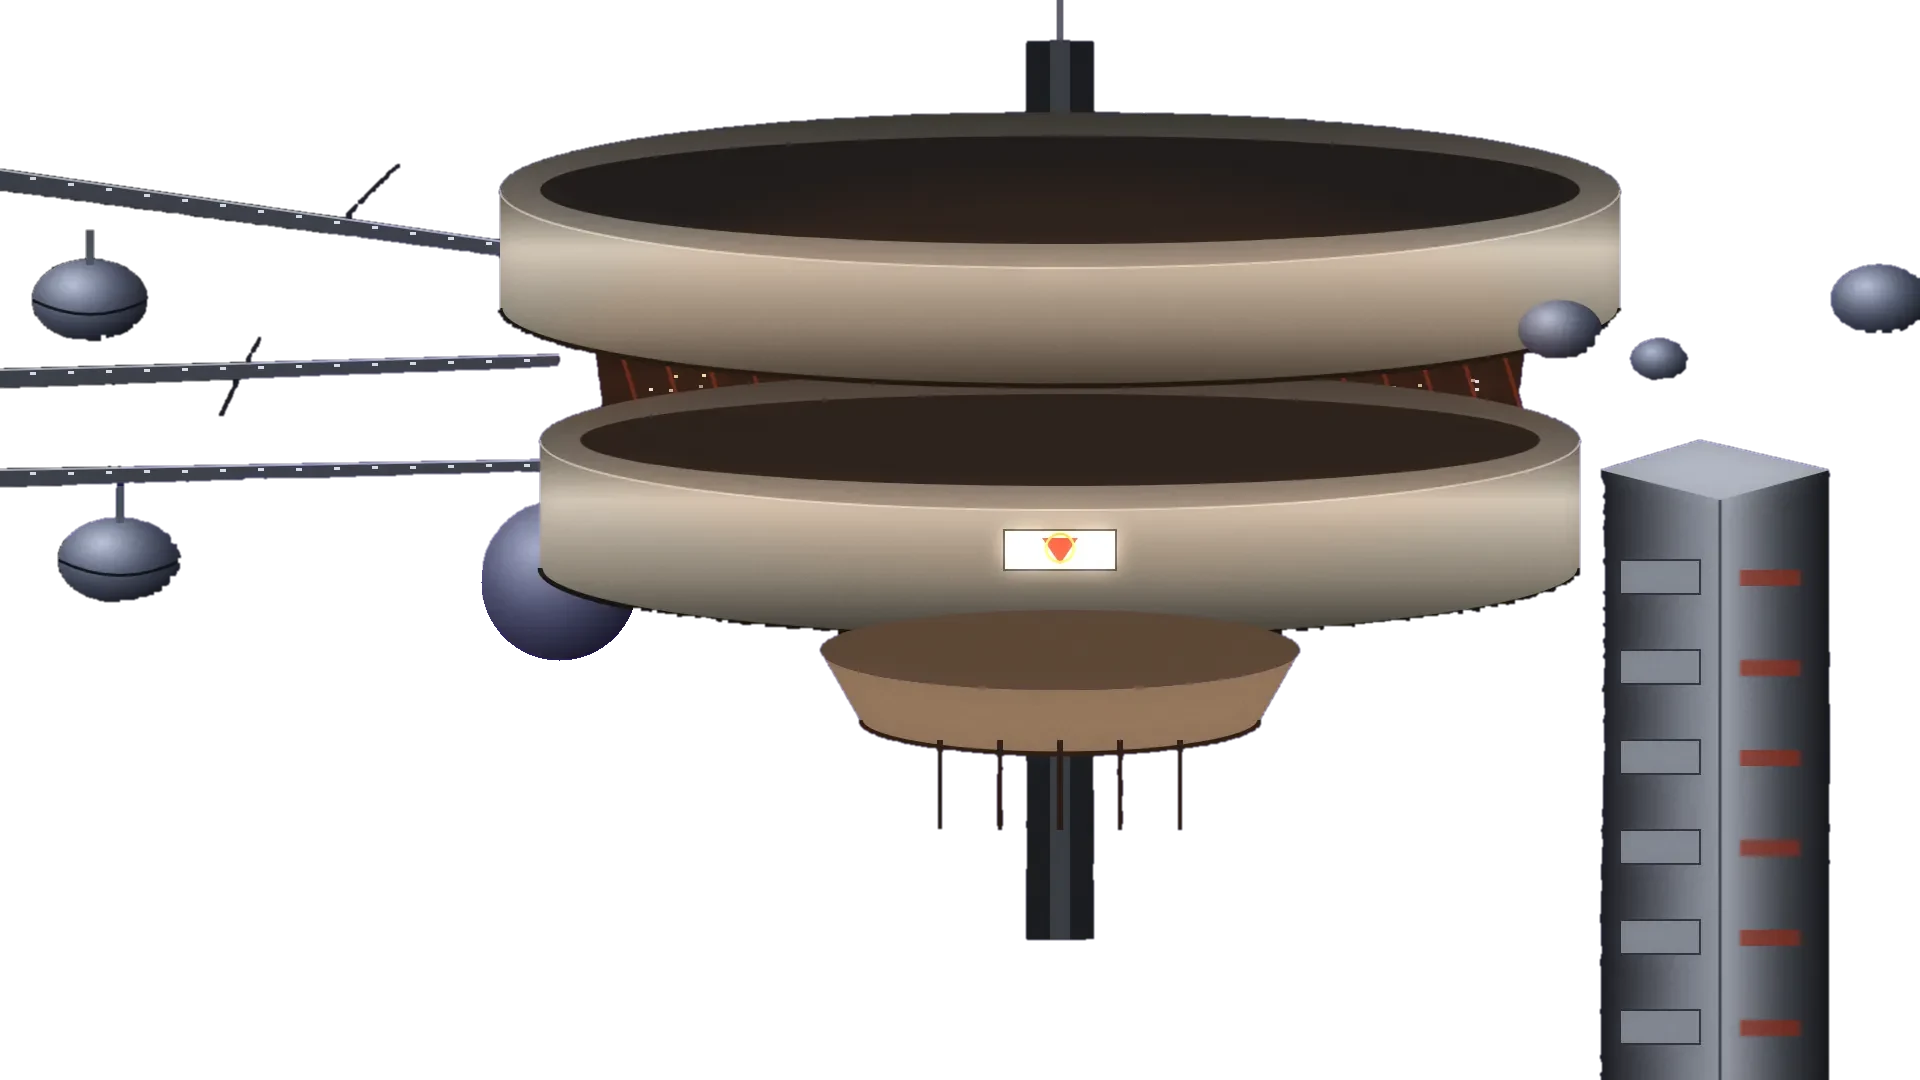
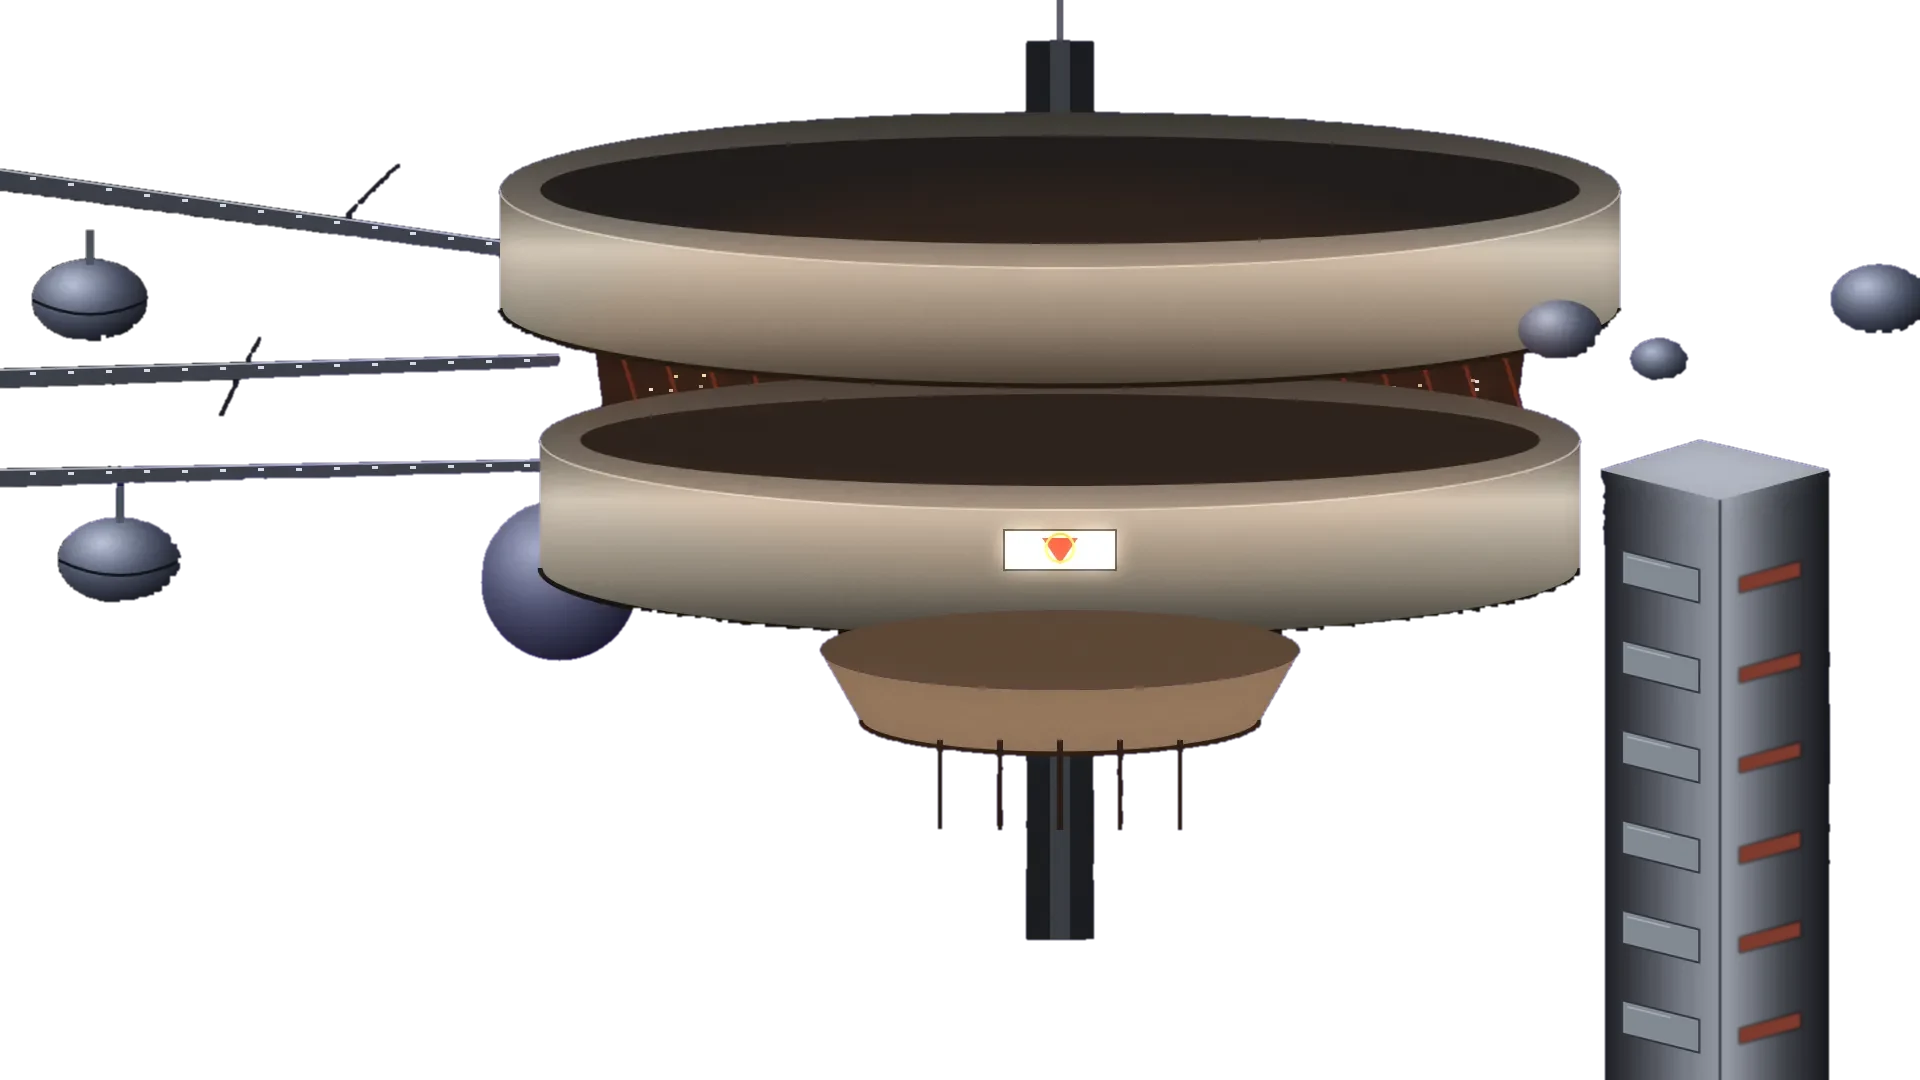
Tema Arena: la nave tributo passa tre volte a giro (grande, piccola da destra, media), con pause; finestre e barre rosse del grattacielo in prospettiva
Claude-Session: https://claude.ai/code/session_01951htPivKYfjiD84mkGfNX

diff --git a/index.html b/index.html
@@ -24,7 +24,7 @@ function tcjSezione(h){var s=document.currentScript;s.insertAdjacentHTML("before
 <script>/* Versione della pagina: la scrive strumenti/versiona.js a ogni pubblicazione.
    Se il browser ha aperto una copia vecchia rimasta in memoria, il sito se ne accorge:
    nei primi secondi si aggiorna da solo, più tardi propone «Aggiorna» (senza mai interrompere chi sta scrivendo). */
-var TCJ_VERSIONE="dcef3b4f";
+var TCJ_VERSIONE="cd0df28c";
 (function(){
   var nascita=Date.now(),ultimo=0;
   function nuova(v){location.replace(location.pathname+"?v="+v+location.hash);}
@@ -312,7 +312,7 @@ if(!window.TCJ_LEGGERO)document.write('<script src="js/intro.js?v=fdb394c0"><\/s
 <script src="js/risparmio.js?v=7a45fb6b"></script>
 <script>/* Stili dei temi del sito: si scarica solo quello del tema scelto (gli altri non pesano sulla pagina).
    Qui viene caricato subito, nello stesso punto di sempre; se si cambia tema, js/tema-sito.js aggiunge quello nuovo. */
-var TCJ_TEMI_CSS={dauntless:["css/31-tema-dauntless.css?v=418e607a","css/37-caratteri-dauntless.css?v=31f95ef0"],pergamena:["css/32-tema-pergamena.css?v=07d7ed1b","css/37-caratteri-pergamena.css?v=e4f95d41"],mh:["css/34-tema-monster-hunter.css?v=edf6e1c7","css/37-caratteri-mh.css?v=9f1a3205"],osteria:["css/35-tema-osteria.css?v=f9bbd1ef","css/37-caratteri-osteria.css?v=a32fc741"],reami:["css/36-tema-reami.css?v=6be5c48c","css/37-caratteri-reami.css?v=bb351a08"],arena:["css/41-tema-arena.css?v=61bfead3","css/37-caratteri-arena.css?v=38ecbf59"],truasilia:["css/42-tema-truasilia.css?v=fa0a2a07","css/37-caratteri-truasilia.css?v=2fc218c3"]};
+var TCJ_TEMI_CSS={dauntless:["css/31-tema-dauntless.css?v=418e607a","css/37-caratteri-dauntless.css?v=31f95ef0"],pergamena:["css/32-tema-pergamena.css?v=07d7ed1b","css/37-caratteri-pergamena.css?v=e4f95d41"],mh:["css/34-tema-monster-hunter.css?v=edf6e1c7","css/37-caratteri-mh.css?v=9f1a3205"],osteria:["css/35-tema-osteria.css?v=f9bbd1ef","css/37-caratteri-osteria.css?v=a32fc741"],reami:["css/36-tema-reami.css?v=6be5c48c","css/37-caratteri-reami.css?v=bb351a08"],arena:["css/41-tema-arena.css?v=59610e0d","css/37-caratteri-arena.css?v=38ecbf59"],truasilia:["css/42-tema-truasilia.css?v=fa0a2a07","css/37-caratteri-truasilia.css?v=2fc218c3"]};
 (function(){var t=document.documentElement.getAttribute("data-tema"),l=TCJ_TEMI_CSS[t];if(l)document.write(l.map(function(u){return '<link rel="stylesheet" href="'+u+'" data-tema-css="'+t+'">';}).join(""));})();</script>
 <link rel="stylesheet" href="css/38-temi-telefono.css?v=c0b986b4">
 <script src="js/tema-sito.js?v=a3695412"></script>

diff --git a/css/41-tema-arena.css b/css/41-tema-arena.css
@@ -69,7 +69,18 @@ html[data-tema=arena] .gc-tot b:not(:is(#ms,#pwo,#munlock,#intro,.map-wrap,.cj-o
 #ar-stazione .ar-primo{position:absolute;inset:0;background:url("../media/arena-primo.webp") 0 0/100% 100% no-repeat;pointer-events:none}
 /* la scena è più grande dello schermo sugli schermi larghi (si taglia sopra e sotto): la nave tributo si misura sullo schermo,
    all'82% della sua altezza, nella fascia di cielo libero sotto la stazione */
-#ar-stazione .ar-tributo{top:calc((max(100vh,56.25vw) - 100vh) / 2 + 82vh)}
+#ar-stazione .ar-nv.ar-tributo{top:calc((max(100vh,56.25vw) - 100vh) / 2 + 82vh);animation:arTributo 150s linear -6s infinite;transform-origin:0 50%}
+#ar-stazione .ar-nv.ar-tributo .ar-nv-b{animation:arTributoVerso 150s step-end -6s infinite}
+/* tre passaggi in un giro di 150 secondi, con una pausa tra l'uno e l'altro:
+   1) da sinistra a destra, grandezza piena; 2) da destra a sinistra, più piccola e un po' più in basso; 3) da sinistra a destra, media e un po' più in alto */
+@keyframes arTributo{
+  0%{transform:translate(-30vw,0) scale(1)}
+  26.6%{transform:translate(130vw,0) scale(1)}
+  26.7%,40%{transform:translate(130vw,6vh) scale(.68)}
+  63.3%{transform:translate(-30vw,6vh) scale(.68)}
+  63.4%,73.3%{transform:translate(-30vw,-6vh) scale(.84)}
+  100%{transform:translate(130vw,-6vh) scale(.84)}}
+@keyframes arTributoVerso{0%{transform:none}26.7%{transform:scaleX(-1)}63.4%{transform:none}}
 #ar-stazione .ar-tributo .nv-s{filter:drop-shadow(0 0 5px rgba(160,210,255,.4)) brightness(.92) contrast(1.05)}
 /* nave tributo: luce blu in coda che si allunga come una stella cadente */
 #ar-stazione .ar-stella{position:absolute;right:97%;top:60%;width:520%;height:22%;transform:translateY(-50%);pointer-events:none;
